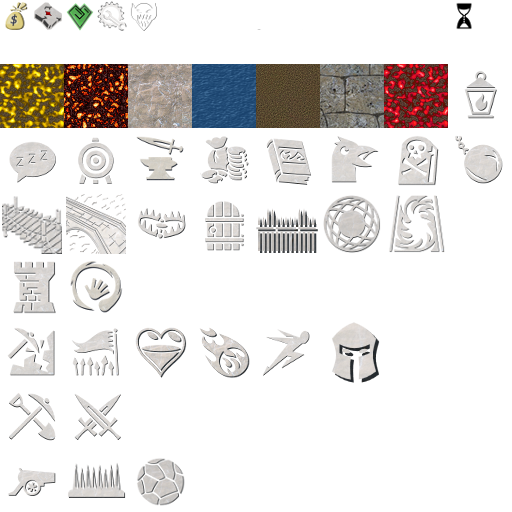
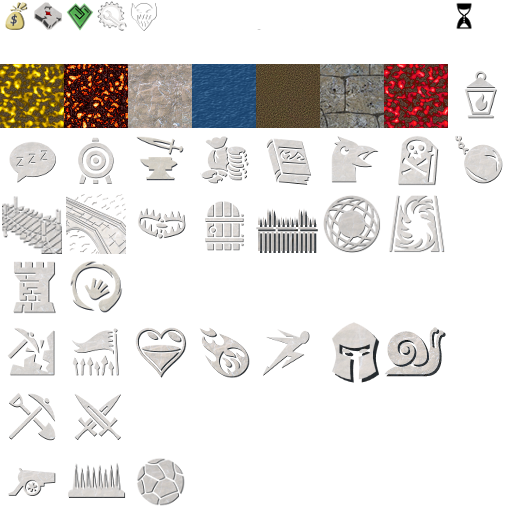
Added creature slow spell

Changed region(s): [[0.75, 0.625, 0.875, 0.75]]

diff --git a/source/spells/SpellCreatureSlow.cpp b/source/spells/SpellCreatureSlow.cpp
@@ -1,0 +1,218 @@
+/*
+ *  Copyright (C) 2011-2015  OpenDungeons Team
+ *
+ *  This program is free software: you can redistribute it and/or modify
+ *  it under the terms of the GNU General Public License as published by
+ *  the Free Software Foundation, either version 3 of the License, or
+ *  (at your option) any later version.
+ *
+ *  This program is distributed in the hope that it will be useful,
+ *  but WITHOUT ANY WARRANTY; without even the implied warranty of
+ *  MERCHANTABILITY or FITNESS FOR A PARTICULAR PURPOSE.  See the
+ *  GNU General Public License for more details.
+ *
+ *  You should have received a copy of the GNU General Public License
+ *  along with this program.  If not, see <http://www.gnu.org/licenses/>.
+ */
+
+#include "spells/SpellCreatureSlow.h"
+
+#include "creatureeffect/CreatureEffectSpeedChange.h"
+#include "entities/Creature.h"
+#include "entities/Tile.h"
+#include "game/Player.h"
+#include "game/Seat.h"
+#include "gamemap/GameMap.h"
+#include "gamemap/Pathfinding.h"
+#include "modes/InputCommand.h"
+#include "modes/InputManager.h"
+#include "network/ODClient.h"
+#include "spells/SpellType.h"
+#include "spells/SpellManager.h"
+#include "utils/ConfigManager.h"
+#include "utils/Helper.h"
+#include "utils/LogManager.h"
+
+const std::string SpellCreatureSlowName = "creatureSlow";
+const std::string SpellCreatureSlowNameDisplay = "Creature Slow";
+const std::string SpellCreatureSlowCooldownKey = "CreatureSlowCooldown";
+const SpellType SpellCreatureSlow::mSpellType = SpellType::creatureSlow;
+
+namespace
+{
+class SpellCreatureSlowFactory : public SpellFactory
+{
+    SpellType getSpellType() const override
+    { return SpellCreatureSlow::mSpellType; }
+
+    const std::string& getName() const override
+    { return SpellCreatureSlowName; }
+
+    const std::string& getCooldownKey() const override
+    { return SpellCreatureSlowCooldownKey; }
+
+    const std::string& getNameReadable() const override
+    { return SpellCreatureSlowNameDisplay; }
+
+    virtual void checkSpellCast(GameMap* gameMap, const InputManager& inputManager, InputCommand& inputCommand) const override
+    { SpellCreatureSlow::checkSpellCast(gameMap, inputManager, inputCommand); }
+
+    virtual bool castSpell(GameMap* gameMap, Player* player, ODPacket& packet) const override
+    { return SpellCreatureSlow::castSpell(gameMap, player, packet); }
+
+    Spell* getSpellFromStream(GameMap* gameMap, std::istream &is) const override
+    { return SpellCreatureSlow::getSpellFromStream(gameMap, is); }
+
+    Spell* getSpellFromPacket(GameMap* gameMap, ODPacket &is) const override
+    { return SpellCreatureSlow::getSpellFromPacket(gameMap, is); }
+};
+
+// Register the factory
+static SpellRegister reg(new SpellCreatureSlowFactory);
+}
+
+void SpellCreatureSlow::checkSpellCast(GameMap* gameMap, const InputManager& inputManager, InputCommand& inputCommand)
+{
+    Player* player = gameMap->getLocalPlayer();
+    int32_t pricePerTarget = ConfigManager::getSingleton().getSpellConfigInt32("CreatureSlowPrice");
+    int32_t playerMana = static_cast<int32_t>(player->getSeat()->getMana());
+    if(inputManager.mCommandState == InputCommandState::infoOnly)
+    {
+        if(playerMana < pricePerTarget)
+        {
+            std::string txt = formatCastSpell(SpellType::creatureSlow, pricePerTarget);
+            inputCommand.displayText(Ogre::ColourValue::Red, txt);
+        }
+        else
+        {
+            std::string txt = formatCastSpell(SpellType::creatureSlow, pricePerTarget);
+            inputCommand.displayText(Ogre::ColourValue::White, txt);
+        }
+        inputCommand.selectSquaredTiles(inputManager.mXPos, inputManager.mYPos, inputManager.mXPos,
+            inputManager.mYPos);
+        return;
+    }
+
+    Tile* tileSelected = gameMap->getTile(inputManager.mXPos, inputManager.mYPos);
+    if(tileSelected == nullptr)
+        return;
+
+    if(inputManager.mCommandState == InputCommandState::building)
+    {
+        inputCommand.selectSquaredTiles(inputManager.mXPos, inputManager.mYPos, inputManager.mXPos,
+            inputManager.mYPos);
+    }
+
+    std::vector<EntityBase*> entities;
+    // We search the closest creature alive
+    tileSelected->fillWithEntities(entities, SelectionEntityWanted::creatureAliveEnemy, player);
+    Creature* closestCreature = nullptr;
+    double closestDist = 0;
+    for(EntityBase* entity : entities)
+    {
+        if(entity->getObjectType() != GameEntityType::creature)
+        {
+            OD_LOG_ERR("entityName=" + entity->getName() + ", entityType=" + Helper::toString(static_cast<uint32_t>(entity->getObjectType())));
+            continue;
+        }
+
+        const Ogre::Vector3& entityPos = entity->getPosition();
+        double dist = Pathfinding::squaredDistance(entityPos.x, inputManager.mKeeperHandPos.x, entityPos.y, inputManager.mKeeperHandPos.y);
+        if(closestCreature == nullptr)
+        {
+            closestDist = dist;
+            closestCreature = static_cast<Creature*>(entity);
+            continue;
+        }
+
+        if(dist >= closestDist)
+            continue;
+
+        closestDist = dist;
+        closestCreature = static_cast<Creature*>(entity);
+    }
+
+    if(closestCreature == nullptr)
+    {
+        std::string txt = formatCastSpell(SpellType::creatureSlow, 0);
+        inputCommand.displayText(Ogre::ColourValue::White, txt);
+        return;
+    }
+
+    std::string txt = formatCastSpell(SpellType::creatureSlow, pricePerTarget);
+    inputCommand.displayText(Ogre::ColourValue::White, txt);
+
+    if(inputManager.mCommandState != InputCommandState::validated)
+        return;
+
+    inputCommand.unselectAllTiles();
+
+    ClientNotification *clientNotification = SpellManager::createSpellClientNotification(SpellType::creatureSlow);
+    clientNotification->mPacket << closestCreature->getName();
+    ODClient::getSingleton().queueClientNotification(clientNotification);
+}
+
+bool SpellCreatureSlow::castSpell(GameMap* gameMap, Player* player, ODPacket& packet)
+{
+    std::string creatureName;
+    OD_ASSERT_TRUE(packet >> creatureName);
+
+    // We check that the creature is a valid target
+    Creature* creature = gameMap->getCreature(creatureName);
+    if(creature == nullptr)
+    {
+        OD_LOG_ERR("creatureName=" + creatureName);
+        return false;
+    }
+
+    if(creature->getSeat()->isAlliedSeat(player->getSeat()))
+    {
+        OD_LOG_ERR("creatureName=" + creatureName);
+        return false;
+    }
+
+    Tile* pos = creature->getPositionTile();
+    if(pos == nullptr)
+    {
+        OD_LOG_ERR("creatureName=" + creatureName);
+        return false;
+    }
+
+    if(!creature->isAlive())
+    {
+        // This can happen if the creature was alive on client side but is not since we received the message
+        OD_LOG_WRN("creatureName=" + creatureName);
+        return false;
+    }
+
+    // That can happen if the creature is not in perfect synchronization and is not on a claimed tile on the server gamemap
+    if(!pos->isClaimedForSeat(player->getSeat()))
+    {
+        OD_LOG_WRN("Creature=" + creatureName + ", tile=" + Tile::displayAsString(pos));
+        return false;
+    }
+
+    int32_t pricePerTarget = ConfigManager::getSingleton().getSpellConfigInt32("CreatureSlowPrice");
+
+    if(!player->getSeat()->takeMana(pricePerTarget))
+        return false;
+
+    uint32_t duration = ConfigManager::getSingleton().getSpellConfigUInt32("CreatureSlowDuration");
+    double value = ConfigManager::getSingleton().getSpellConfigDouble("CreatureSlowValue");
+    CreatureEffectSpeedChange* effect = new CreatureEffectSpeedChange(duration, value, "SpellCreatureSlow");
+    creature->addCreatureEffect(effect);
+
+    return true;
+}
+
+Spell* SpellCreatureSlow::getSpellFromStream(GameMap* gameMap, std::istream &is)
+{
+    OD_LOG_ERR("SpellCreatureSlow cannot be read from stream");
+    return nullptr;
+}
+
+Spell* SpellCreatureSlow::getSpellFromPacket(GameMap* gameMap, ODPacket &is)
+{
+    OD_LOG_ERR("SpellCreatureSlow cannot be read from packet");
+    return nullptr;
+}

diff --git a/source/spells/SpellCreatureSlow.h b/source/spells/SpellCreatureSlow.h
@@ -15,32 +15,26 @@
  *  along with this program.  If not, see <http://www.gnu.org/licenses/>.
  */
 
-#ifndef SPELLTYPE_H
-#define SPELLTYPE_H
+#ifndef SPELLCREATURESLOW_H
+#define SPELLCREATURESLOW_H
 
-#include <iosfwd>
-#include <string>
+#include "spells/Spell.h"
+#include "spells/SpellType.h"
 
-class ODPacket;
+class GameMap;
+class InputCommand;
+class InputManager;
 
-enum class SpellType
+class SpellCreatureSlow : public Spell
 {
-    nullSpellType = 0,
-    summonWorker,
-    callToWar,
-    creatureHeal,
-    creatureExplosion,
-    creatureHaste,
-    creatureDefense,
-    creatureSlow,
-    nbSpells     // Must be the last in this enum
+public:
+    static void checkSpellCast(GameMap* gameMap, const InputManager& inputManager, InputCommand& inputCommand);
+    static bool castSpell(GameMap* gameMap, Player* player, ODPacket& packet);
+
+    static Spell* getSpellFromStream(GameMap* gameMap, std::istream &is);
+    static Spell* getSpellFromPacket(GameMap* gameMap, ODPacket &is);
+
+    static const SpellType mSpellType;
 };
 
-std::istream& operator>>(std::istream& is, SpellType& tt);
-std::ostream& operator<<(std::ostream& os, const SpellType& tt);
-
-ODPacket& operator>>(ODPacket& is, SpellType& tt);
-ODPacket& operator<<(ODPacket& os, const SpellType& tt);
-
-
-#endif // SPELLTYPE_H
+#endif // SPELLCREATURESLOW_H

diff --git a/source/game/Research.cpp b/source/game/Research.cpp
@@ -128,6 +128,8 @@ std::string Research::researchTypeToString(ResearchType type)
             return "spellCreatureHaste";
         case ResearchType::spellCreatureHeal:
             return "spellCreatureHeal";
+        case ResearchType::spellCreatureSlow:
+            return "spellCreatureSlow";
         case ResearchType::trapBoulder:
             return "trapBoulder";
         case ResearchType::trapCannon:
@@ -173,10 +175,14 @@ std::string Research::researchTypeToPlayerVisibleString(ResearchType type)
             return "The 'Summon Worker' Spell";
         case ResearchType::spellCreatureHeal:
             return "The 'Heal' Spell";
+        case ResearchType::spellCreatureDefense:
+            return "The 'Defense' Spell";
         case ResearchType::spellCreatureExplosion:
             return "The 'Explosion' Spell";
         case ResearchType::spellCreatureHaste:
             return "The 'Haste' Spell";
+        case ResearchType::spellCreatureSlow:
+            return "The 'Slow' Spell";
         case ResearchType::trapBoulder:
             return "The Boulder Trap";
         case ResearchType::trapCannon:

diff --git a/source/game/ResearchManager.cpp b/source/game/ResearchManager.cpp
@@ -458,6 +458,15 @@ ResearchManager::ResearchManager() :
     def->mapResearch(mResearchesFamily);
     mResearches[index] = def;
     lvl3depends.push_back(research);
+
+    resType = ResearchType::spellCreatureSlow;
+    index = static_cast<uint32_t>(resType);
+    points = ConfigManager::getSingleton().getResearchPoints(Research::researchTypeToString(resType));
+    research = new Research(resType, points, lvl2depends);
+    def = new ResearchDefSpell("MagicSkills/", "CreatureSlowButton", research, SpellType::creatureSlow);
+    def->mapResearch(mResearchesFamily);
+    mResearches[index] = def;
+    lvl3depends.push_back(research);
 }
 
 ResearchManager::~ResearchManager()

diff --git a/source/game/Research.h b/source/game/Research.h
@@ -54,6 +54,7 @@ enum class ResearchType
     spellCreatureExplosion,
     spellCreatureHaste,
     spellCreatureHeal,
+    spellCreatureSlow,
 
     // This should be the last
     countResearch
